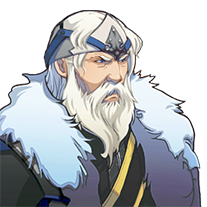
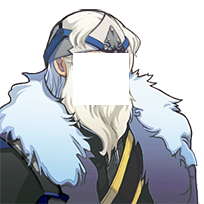
Fixing a few things

diff --git a/Bust Config.rb b/Bust Config.rb
@@ -35,6 +35,9 @@ module Busty
     "MainActor1-1fs" => "Altina",
     "MainActor1-3fs" => "MainActor1-3", # Chosen
     "Min emo2" => "Min2",
+    "Mithyn emo" => "Mithyn full",
+    "Mithyn emo2" => "Mithyn full",
+    "Mithyn emo3 blush" => "Mithyn full",
     "Riala emo2" => "Riala2",
     "Sabitha H emo" => "SabithaH",
     "Tanurak emoX" => nil, # Disable "glitch" Tanurak
@@ -163,6 +166,12 @@ Busty::BASE_CONFIG.merge!({
   },
 })
 Busty::MESSAGE_CONFIG.merge!({
+  "Aka" => {
+    bust_offset_x: -48,
+  },
+  "Aka2" => {
+    bust_offset_x: -48,
+  },
   "Altina" => {
     bust_offset_x: -30,
   },
@@ -172,11 +181,20 @@ Busty::MESSAGE_CONFIG.merge!({
   "Bertricia" => {
     bust_offset_x: -36,
   },
+  "Dari" => {
+    bust_offset_x: -48,
+  },
+  "Dari2" => {
+    bust_offset_x: -48,
+  },
   "Dio" => { # Lustlord
     bust_offset_x: -36,
   },
   "Feremina" => {
     bust_offset_x: 0,
+  },
+  "Fuani" => {
+    bust_offset_x: -48,
   },
   "Galvia" => {
     bust_offset_x: -36,
@@ -187,10 +205,6 @@ Busty::MESSAGE_CONFIG.merge!({
   "Lynine" => {
     bust_offset_x: -36,
   },
-  "MainActor1-3" => { # Chosen
-    bust_offset_x: -60,
-    bust_offset_y: 75,
-  },
   "Mestan" => {
     bust_offset_x: -36,
   },
@@ -200,8 +214,20 @@ Busty::MESSAGE_CONFIG.merge!({
   "Min2" => {
     bust_offset_x: -36,
   },
+  "Mithyn full" => {
+    bust_offset_x: -180,
+  },
   "Nalili" => {
     bust_offset_y: 25,
+  },
+  "Neranda" => {
+    bust_offset_x: -36,
+  },
+  "Ralke" => {
+    bust_offset_x: -36,
+  },
+  "Riala" => {
+    bust_offset_x: -48,
   },
   "Sarai" => {
     bust_offset_x: -20,
@@ -209,6 +235,15 @@ Busty::MESSAGE_CONFIG.merge!({
   },
   "TertiaH" => {
     bust_offset_x: -72,
+  },
+  "Uyae" => {
+    bust_offset_x: -36,
+  },
+  "Vera" => {
+    bust_offset_x: -36,
+  },
+  "Vunne" => {
+    bust_offset_x: -48,
   },
 })
 
@@ -225,11 +260,12 @@ Busty::BASE_CONFIG.merge!({
     face_offset_x: 61,
     face_offset_y: 66,
   },
-  # FIXME Major.
   "Alonon" => {
-    bust_scale: 0.72,
-    face_offset_x: 87,
-    face_offset_y: 53,
+    bust_scale: 0.71,
+    face_offset_x: 45,
+    face_offset_y: 26,
+    face_border_width: 4,
+    face_z: -1,
   },
   "Altina" => {
     bust_scale: 0.78,
@@ -237,11 +273,12 @@ Busty::BASE_CONFIG.merge!({
     face_offset_y: 30,
     face_border_width: 1,
   },
-  # FIXME Minor. Issue with the inside of her cloth, near the neck.
   "Annah" => {
     bust_scale: 0.77,
     face_offset_x: 61,
     face_offset_y: 44,
+    face_border_width: 4,
+    face_z: -1,
   },
   "Antarion" => {
     bust_scale: 0.79,
@@ -456,11 +493,11 @@ Busty::BASE_CONFIG.merge!({
     face_offset_x: 51,
     face_offset_y: 55,
   },
-  "Mithyn" => {
+  "Mithyn full" => {
     bust_scale: 0.75,
-    face_offset_x: 52,
-    face_offset_y: 46,
-    face_border_width: 1
+    face_offset_x: 175,
+    face_offset_y: 53,
+    face_border_width: 1,
   },
   "Nabith" => {
     bust_scale: 0.72,
